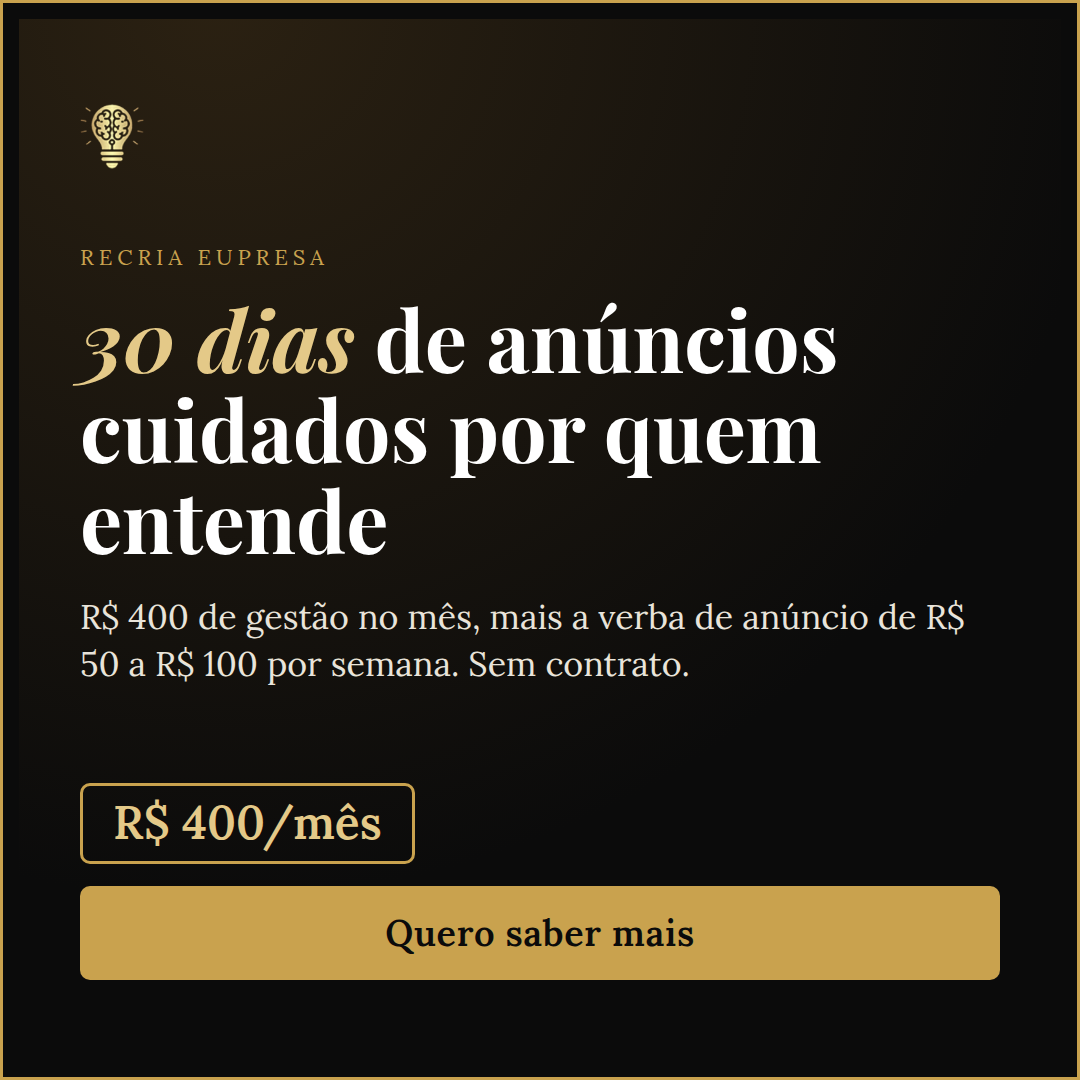
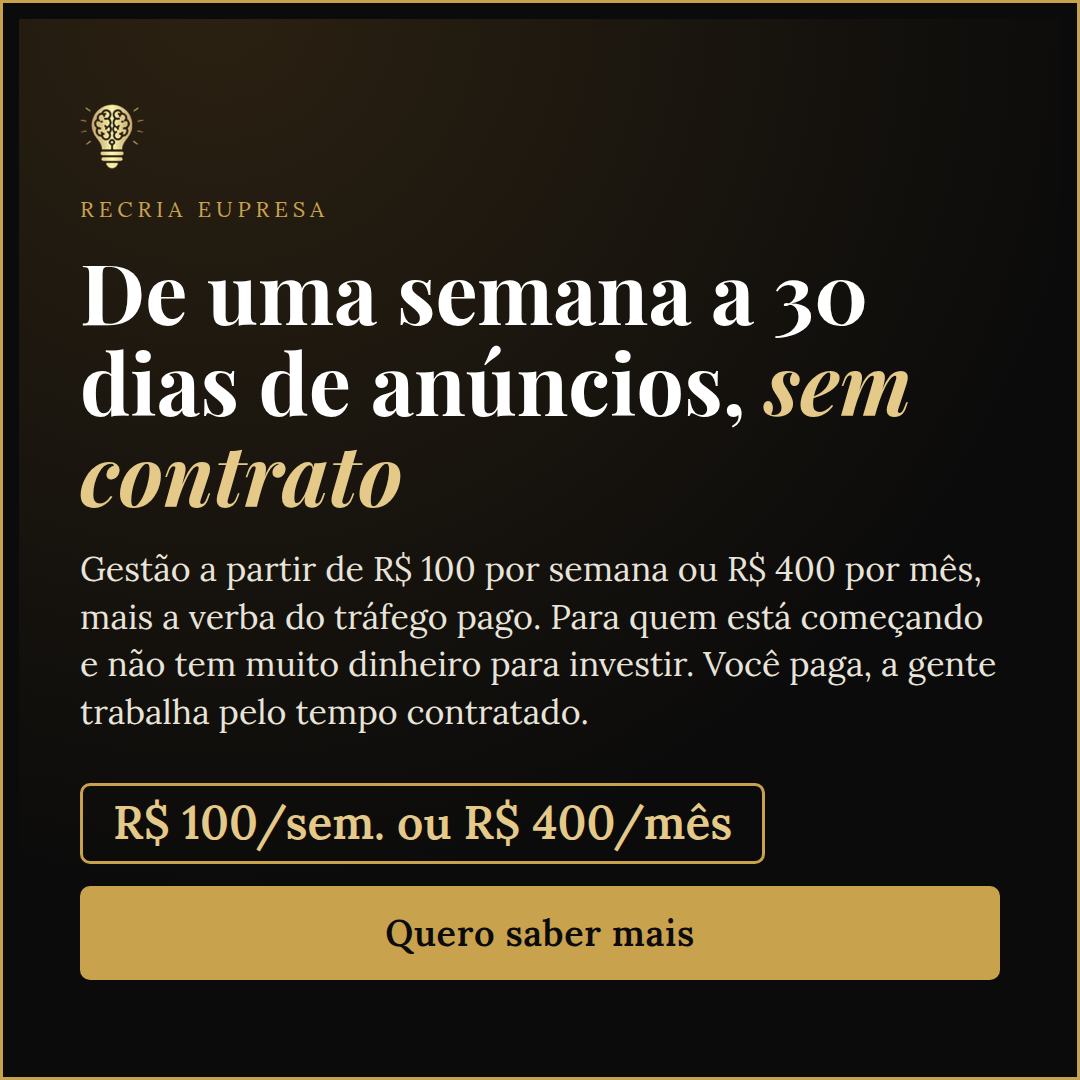
EUpresa: criativo 21 com novo título e subtítulo (de uma semana a 30 dias, sem contrato)
Claude-Session: https://claude.ai/code/session_01DxpPKgzfVt8WYQSkZW1Msu

Changed region(s): [[0.0611, 0.1833, 0.9167, 0.6722], [0.1528, 0.7333, 0.6722, 0.7944]]

diff --git a/recria/criativos-estaticos/legendas-anuncios.md b/recria/criativos-estaticos/legendas-anuncios.md
@@ -376,7 +376,7 @@ Cada criativo tem 2 versões em PNG: `feed-1x1/` (1080x1080) e `stories-9x16/` (
 
 ## 21-empresa-mes
 
-**Título:** 30 dias de anúncios por R$ 400
+**Título:** De uma semana a 30 dias, sem contrato
 
 **Botão:** Saiba mais
 
@@ -384,11 +384,11 @@ Cada criativo tem 2 versões em PNG: `feed-1x1/` (1080x1080) e `stories-9x16/` (
 
 **Texto principal:**
 
-> 30 dias de anúncios cuidados por quem entende.
+> De uma semana a 30 dias de anúncios, sem contrato.
 >
-> R$ 400 de gestão no mês, mais a verba de anúncio de R$ 50 a R$ 100 por semana, paga no Instagram. Sem contrato.
+> Gestão a partir de R$ 100 por semana ou R$ 400 por mês, mais a verba do tráfego pago (de R$ 50 a R$ 100 por semana, paga direto no Instagram).
 >
-> Toque em Saiba mais e veja o plano.
+> Para quem está começando e não tem muito dinheiro para investir. Você paga, a gente trabalha pelo tempo contratado. Toque em Saiba mais.
 
 ---
 
